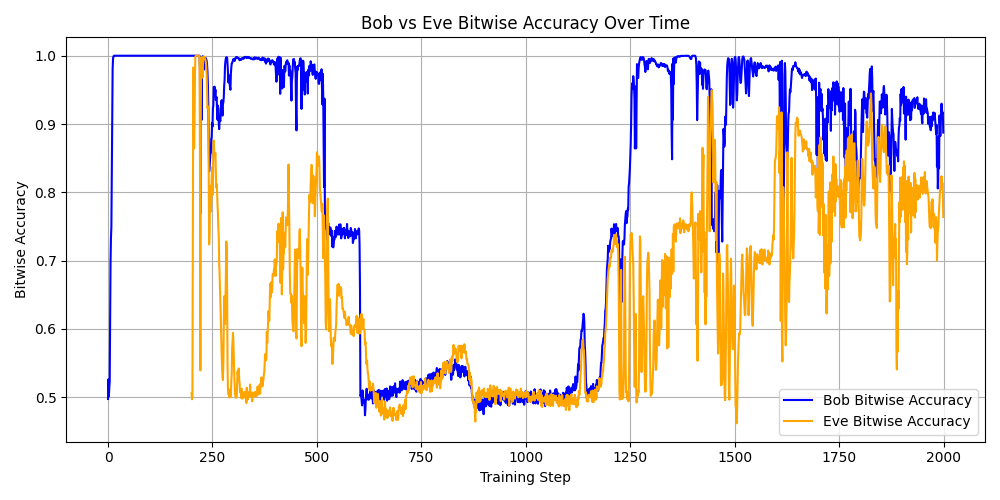
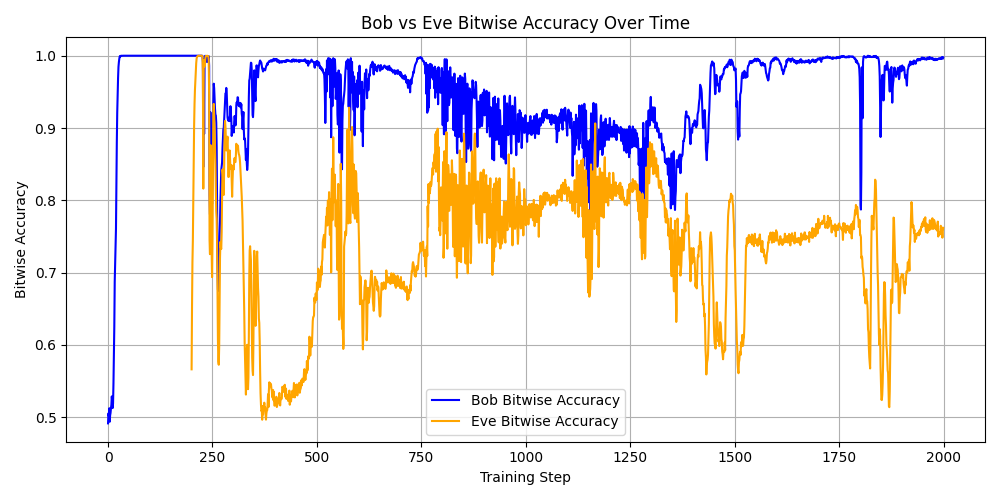
Add GPU testing script and enhance transformer models with positional encoding
- Introduced gpu_tester.py to check CUDA availability and device count.
- Updated transformer models (TransformerAlice, TransformerBob, TransformerEve) to include SinusoidalPositionalEncoding for improved positional information handling.
- Modified loss and accuracy logs, resulting in updated binary files for loss and accuracy curves.
- Added a new file, gpu_tester.py, to check CUDA availability and device count.
- Updated transformer models (TransformerAlice, TransformerBob, TransformerEve) to include SinusoidalPositionalEncoding for improved positional information handling.
- Modified loss and accuracy logs, resulting in updated binary files for loss and accuracy curves.
- Added a new file, gpu_tester.py, to check CUDA availability and device count.
- Updated transformer models (TransformerAlice, TransformerBob, TransformerEve) to include SinusoidalPositionalEncoding for improved positional information handling.
- Modified loss and accuracy logs, resulting in updated binary files for loss and accuracy curves.

diff --git a/modules/transformer_crypto.py b/modules/transformer_crypto.py
@@ -1,5 +1,22 @@
 import torch
 import torch.nn as nn
+import math
+
+class SinusoidalPositionalEncoding(nn.Module):
+    def __init__(self, d_model, max_len=512):
+        super().__init__()
+        pe = torch.zeros(max_len, d_model)
+        position = torch.arange(0, max_len, dtype=torch.float).unsqueeze(1)
+        div_term = torch.exp(torch.arange(0, d_model, 2).float() * (-math.log(10000.0) / d_model))
+        pe[:, 0::2] = torch.sin(position * div_term)
+        pe[:, 1::2] = torch.cos(position * div_term)
+        pe = pe.unsqueeze(0)  # (1, max_len, d_model)
+        self.register_buffer('pe', pe)
+
+    def forward(self, x):
+        # x: (batch, seq_len, d_model)
+        x = x + self.pe[:, :x.size(1), :]
+        return x
 
 class TransformerAlice(nn.Module):
     def __init__(self, cfg):
@@ -12,6 +29,7 @@ class TransformerAlice(nn.Module):
         self.hidden_dim = cfg.transformer_hidden_dim
 
         self.input_proj = nn.Linear(self.input_dim, self.embed_dim)
+        self.pos_encoder = SinusoidalPositionalEncoding(self.embed_dim, max_len=self.seq_len)
         encoder_layer = nn.TransformerEncoderLayer(d_model=self.embed_dim, nhead=self.nhead, dim_feedforward=self.hidden_dim, batch_first=True)
         self.transformer = nn.TransformerEncoder(encoder_layer, num_layers=self.num_layers)
         self.output_proj = nn.Linear(self.embed_dim, 1)
@@ -21,6 +39,7 @@ class TransformerAlice(nn.Module):
         # pt, key: (batch, seq_len)
         x = torch.stack([pt, key], dim=-1)  # (batch, seq_len, 2)
         x = self.input_proj(x)  # (batch, seq_len, embed_dim)
+        x = self.pos_encoder(x)
         x = self.transformer(x)  # (batch, seq_len, embed_dim)
         x = self.output_proj(x).squeeze(-1)  # (batch, seq_len)
         return self.sigmoid(x)
@@ -36,6 +55,7 @@ class TransformerBob(nn.Module):
         self.hidden_dim = cfg.transformer_hidden_dim
 
         self.input_proj = nn.Linear(self.input_dim, self.embed_dim)
+        self.pos_encoder = SinusoidalPositionalEncoding(self.embed_dim, max_len=self.seq_len)
         encoder_layer = nn.TransformerEncoderLayer(d_model=self.embed_dim, nhead=self.nhead, dim_feedforward=self.hidden_dim, batch_first=True)
         self.transformer = nn.TransformerEncoder(encoder_layer, num_layers=self.num_layers)
         self.output_proj = nn.Linear(self.embed_dim, 1)
@@ -45,6 +65,7 @@ class TransformerBob(nn.Module):
         # ct, key: (batch, seq_len)
         x = torch.stack([ct, key], dim=-1)  # (batch, seq_len, 2)
         x = self.input_proj(x)  # (batch, seq_len, embed_dim)
+        x = self.pos_encoder(x)
         x = self.transformer(x)  # (batch, seq_len, embed_dim)
         x = self.output_proj(x).squeeze(-1)  # (batch, seq_len)
         return self.sigmoid(x)
@@ -60,6 +81,7 @@ class TransformerEve(nn.Module):
         self.hidden_dim = cfg.transformer_hidden_dim
 
         self.input_proj = nn.Linear(self.input_dim, self.embed_dim)
+        self.pos_encoder = SinusoidalPositionalEncoding(self.embed_dim, max_len=self.seq_len)
         encoder_layer = nn.TransformerEncoderLayer(d_model=self.embed_dim, nhead=self.nhead, dim_feedforward=self.hidden_dim, batch_first=True)
         self.transformer = nn.TransformerEncoder(encoder_layer, num_layers=self.num_layers)
         self.output_proj = nn.Linear(self.embed_dim, 1)
@@ -69,6 +91,7 @@ class TransformerEve(nn.Module):
         # ct: (batch, seq_len)
         x = ct.unsqueeze(-1)  # (batch, seq_len, 1)
         x = self.input_proj(x)  # (batch, seq_len, embed_dim)
+        x = self.pos_encoder(x)
         x = self.transformer(x)  # (batch, seq_len, embed_dim)
         x = self.output_proj(x).squeeze(-1)  # (batch, seq_len)
         return self.sigmoid(x)

diff --git a/gpu_tester.py b/gpu_tester.py
@@ -1,0 +1,4 @@
+import torch
+print(torch.cuda.is_available())
+print(torch.cuda.device_count())
+print(torch.cuda.get_device_name(torch.cuda.current_device()))
